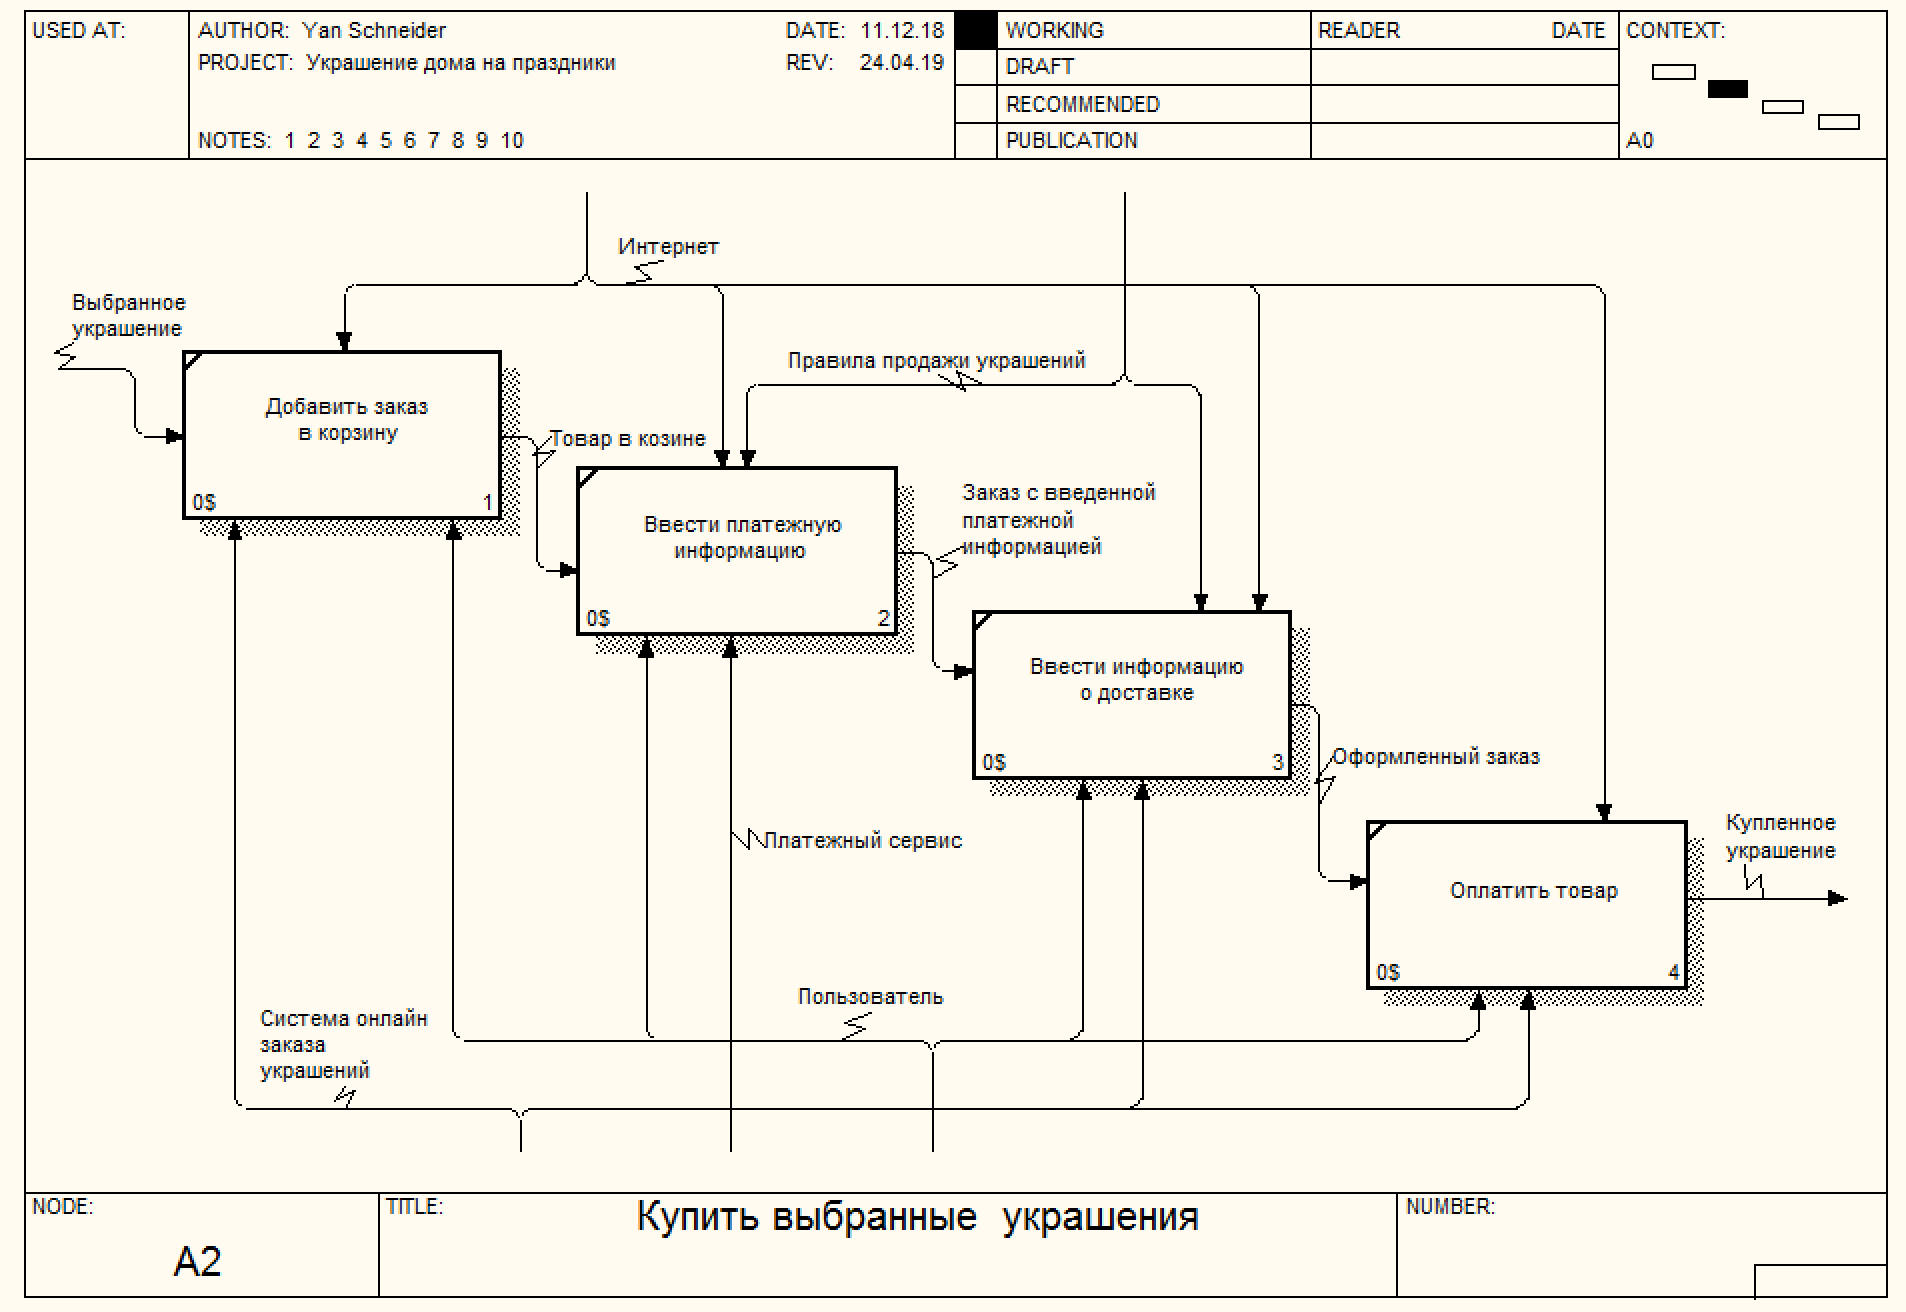
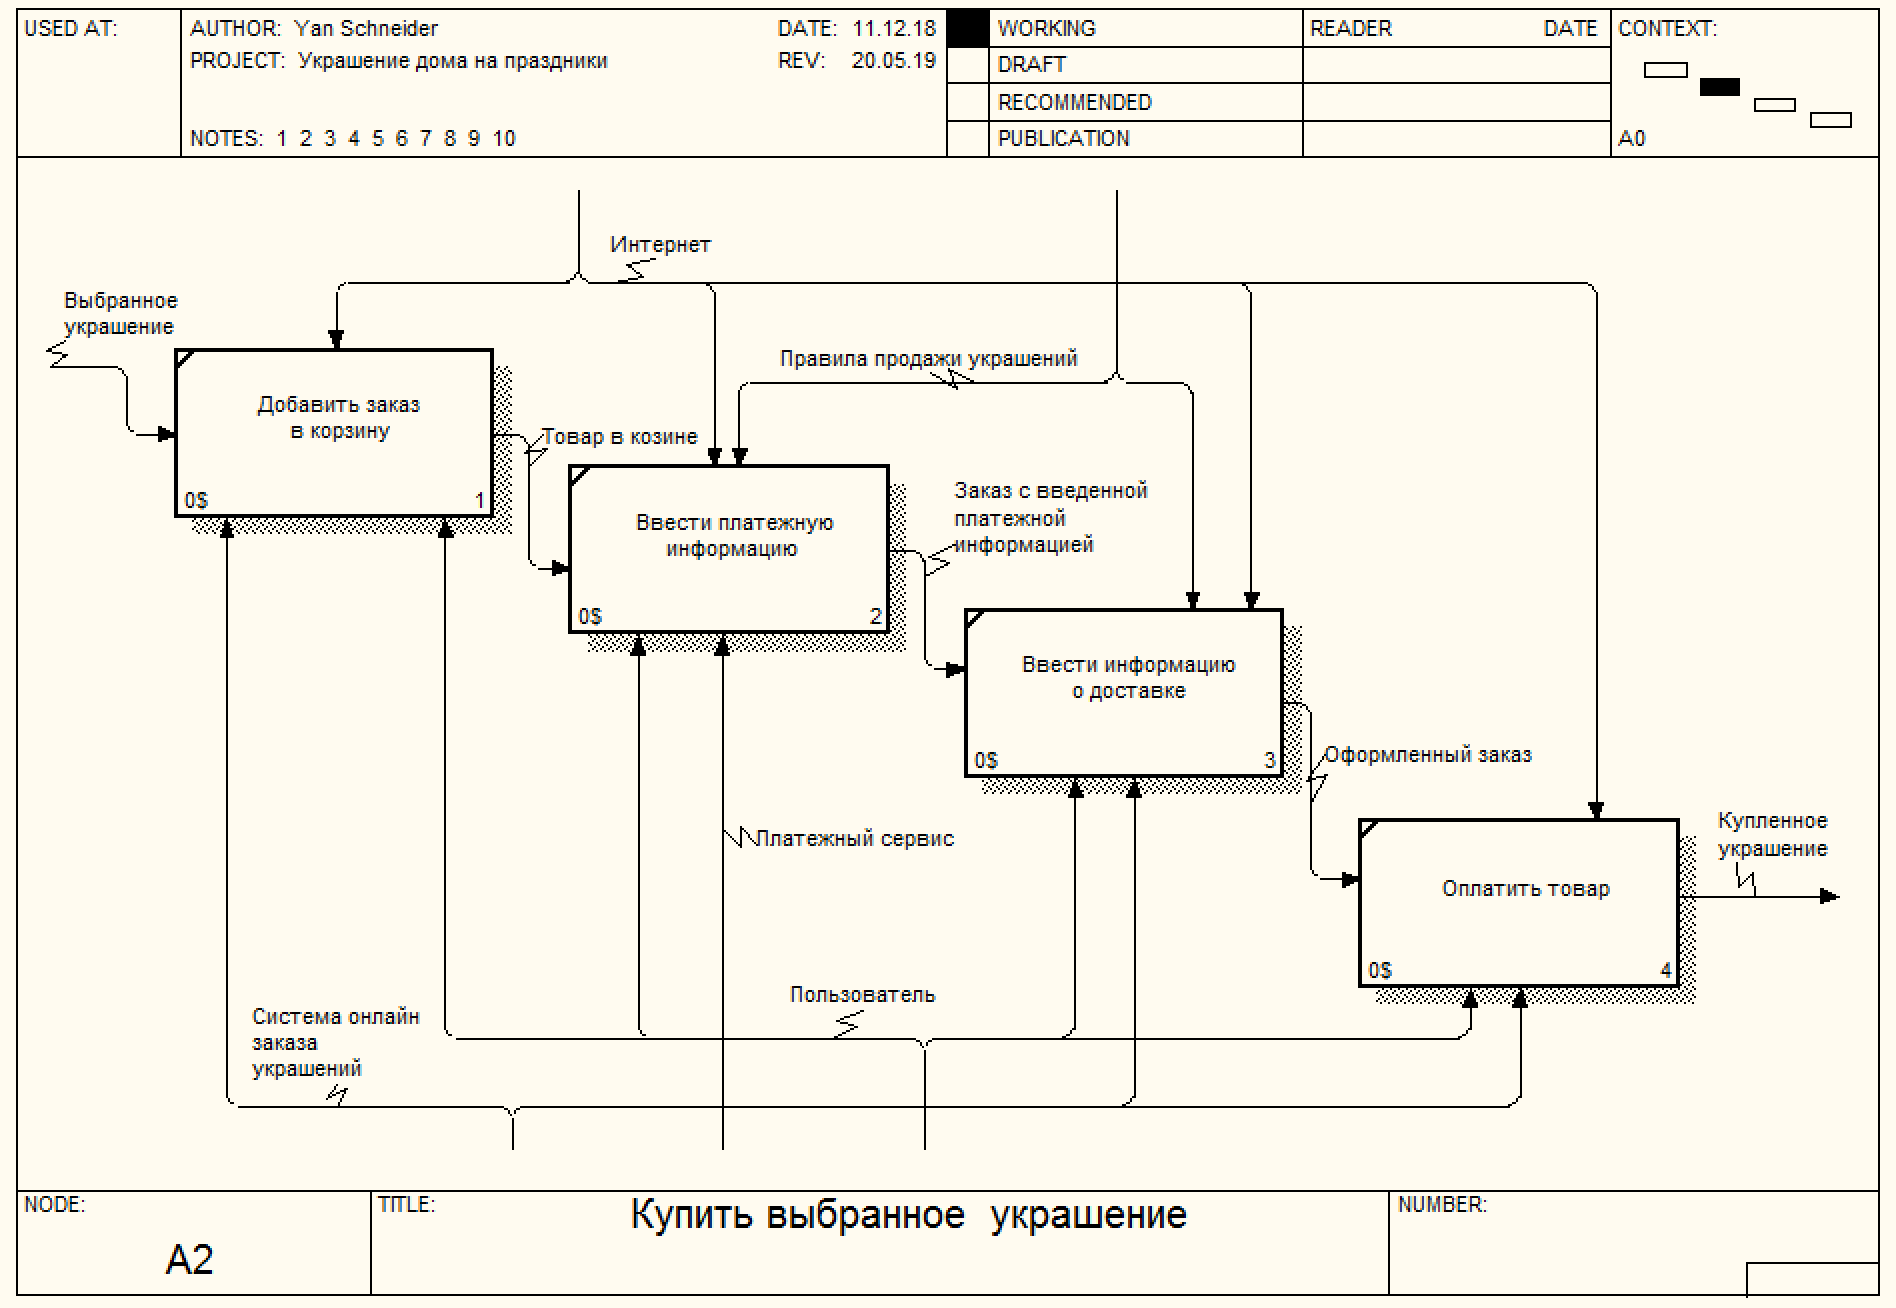
Fixed idef, changed title, added analytics

diff --git a/content/sections/analysis/02_02_company_and_garlands.tex b/content/sections/analysis/02_02_company_and_garlands.tex
@@ -1,6 +1,36 @@
 \subsection{Деятельность ООО \enquote{Сампад} в сфере Интернета вещей}
 \label{sec:develop:companyGarlands}
 
+Индустрия электронного светового оборудования и рынок IoT занимают особое место в деятельности кампании Sampad. Первый проект в данной сфере появился еще в 2016 году. На данный момент существует уже 4 проекта со схожей тематикой и еще несколько находятся на стадии проектирования. Компания разрабатывает как мобильные и веб приложения для управления световым оборудованием, так и прошивку для самого оборудования (C/C++, Arduino). Также компания консультирует заказчиков по поводу электронных компонентов, находящихся в данном оборудовании, хоть и не отвечает непосредственно за разработку электронных схем.
 
+Динамика роста прибыли компании Sampad в сфере Интернета вещей за последний год показывает отличный прогресс (Рисунок \ref{fig:analysis:companyGarlands:sampadIncome}).
 
+~
+\begin{figure}[H]
+\centering
+	\includegraphics[scale=1]{figures/sampadIncome.png}
+	\caption{Прибыль компании Sampad в различных сферах}
+	\label{fig:analysis:companyGarlands:sampadIncome}
+\end{figure}
 
+Перед началом проекта по управлению адресными светодиодными лентами, было проведено маркетинговое исследование. Данное исследование выявило самую эффективную платформу для разработки приложения~--- мобильные устройства (Рисунок \ref{fig:analysis:companyGarlands:deviceMarket}). Мобильные телефоны имеются практически у каждого человека, так что выбор данной платформы позволяет совершить самый широкий обхват пользователей. Также мобильные устройства отлично подходят для управления различными устройствами в сети, в том числе и адресной светодиодной лентой.
+
+~
+\begin{figure}[H]
+\centering
+	\includegraphics[scale=0.4]{figures/deviceMarket.png}
+	\caption{Сравнение количества мобильных устройств, компьютеров и планшетов}
+	\label{fig:analysis:companyGarlands:deviceMarket}
+\end{figure}
+
+Также были исследованы обе мобильные операционные системы (iOS и Android), и, исходя из полученных данных, было принято решение первоначально сделать приложения для операционной системы Apple iOS (Рисунок \ref{fig:analysis:companyGarlands:digitalMarkets}). Данная операционная система является закрытой и имеет только один, проприетарный магазин приложений. В данных условиях приложение по управлению адресными светодиодными лентами имеет доступ к наиболее полному набору пользователей данной операционной системы.
+
+~
+\begin{figure}[H]
+\centering
+	\includegraphics[scale=1]{figures/digitalMarkets.png}
+	\caption{Сравнение объема продаж в цифровых магазинах в различных операционных системах}
+	\label{fig:analysis:companyGarlands:digitalMarkets}
+\end{figure}
+
+По результатам исследования и маркетинговым прогнозам, приложение должно принести большую прибыль компании. Более подробное экономическое обоснование представлено в главе 4.

diff --git a/content/sections/analysis/02_analysis.tex b/content/sections/analysis/02_analysis.tex
@@ -3,10 +3,10 @@
 
 \input{content/sections/analysis/02_01_company}
 
-% \input{content/sections/analysis/02_02_market}
+\input{content/sections/analysis/02_02_company_and_garlands}
 
 \input{content/sections/analysis/02_03_forecast}
 
 \input{content/sections/analysis/02_04_businessProccess}
 
-Итак, был исследован процесс приобретения и управления адресной светодиодной лентой. На основе результатов исследования был проведен анализ рынка Интернета вещей и исследован его прогноз на 2019 год. В результате анализа и исследования была предложена новая модель взаимодействия пользователя с адресной лентой. Новая модель включает в себя специально разработанную адресную ленту, а также мобильное приложение, с помощью которого пользователи получат возможность полноценно управлять данной лентой.
+Итак, был исследован процесс приобретения и управления адресной светодиодной лентой. Представлена информация о компании Sampad, и роли Интернета вещей в ее деятельности. На основе результатов исследования был проведен анализ рынка Интернета вещей и исследован его прогноз на 2019 год. В результате анализа и исследования была предложена новая модель взаимодействия пользователя с адресной лентой. Новая модель включает в себя специально разработанную адресную ленту, а также мобильное приложение, с помощью которого пользователи получат возможность полноценно управлять данной лентой.

diff --git a/content/sections/analysis/02_01_company.tex b/content/sections/analysis/02_01_company.tex
@@ -28,5 +28,3 @@ Sampad имеет большой опыт в таких областях, как
 Основными заказчиками являются: Microsoft, Oracle, The Coca-Cola Company, McDonalds, Nestle, Timotei и многие другие.
 
 Компания делает большой акцент на проектах с использованием искусственного интеллекта (машинное обучение, нейронные сети и др.). Существуют проекты в сфере образования, сбора финансовой информации, кредитования малого и среднего бизнеса, а также приложения для сельского хозяйства (предсказание появления насекомых на полях).
-
-Индустрия электронного светового оборудования и рынок IoT занимают особое место в деятельности кампании Sampad. Первый проект в данной сфере появился еще в 2016 году. На данный момент существует уже 4 проекта со схожей тематикой и еще несколько находятся на стадии проектирования. Компания разрабатывает как мобильные и веб приложения для управления световым оборудованием, так и прошивку для самого оборудования (C/C++, Arduino). Также компания консультирует заказчиков по поводу электронных компонентов, находящихся в данном оборудовании, хоть и не отвечает непосредственно за разработку электронных схем.

diff --git a/content/sections/analysis/02_04_businessProccess.tex b/content/sections/analysis/02_04_businessProccess.tex
@@ -45,7 +45,7 @@
 \begin{figure}[H]
 \centering
 	\includegraphics[scale=0.45]{figures/functionalModel/a1_search.png}
-	\caption{Декомпозиция блока \enquote{Искать подходящие украшения}}
+	\caption{Декомпозиция блока \enquote{Искать подходящие украшение}}
 	\label{fig:analysis:functionalModel:a1_search}
 \end{figure}
 
@@ -55,7 +55,7 @@
 \begin{figure}[H]
 \centering
 	\includegraphics[scale=0.45]{figures/functionalModel/a2_buy.png}
-	\caption{Декомпозиция блока \enquote{Купить выбранные украшения}}
+	\caption{Декомпозиция блока \enquote{Купить выбранные украшение}}
 	\label{fig:analysis:functionalModel:a2_buy}
 \end{figure}
 
@@ -63,7 +63,7 @@
 \begin{figure}[H]
 \centering
 	\includegraphics[scale=0.45]{figures/functionalModel/a3_install.png}
-	\caption{Декомпозиция блока \enquote{Установить украшения}}
+	\caption{Декомпозиция блока \enquote{Установить украшение}}
 	\label{fig:analysis:functionalModel:a3_install}
 \end{figure}
 
@@ -75,7 +75,7 @@
 \begin{figure}[H]
 \centering
 	\includegraphics[scale=0.45]{figures/functionalModel/a4_settings.png}
-	\caption{Декомпозиция блока \enquote{Настроить украшения}}
+	\caption{Декомпозиция блока \enquote{Настроить украшение}}
 	\label{fig:analysis:functionalModel:a4_settings}
 \end{figure}
 

diff --git a/content/main/title.tex b/content/main/title.tex
@@ -10,7 +10,15 @@
           Инженерно-экономический факультет\\
           Кафедра экономической информатики\\
       \end{flushleft}
-    \end{minipage}\\[3.5em]
+    \end{minipage}\\[3em]
+
+    \begin{flushright}
+      \begin{minipage}{0.45\textwidth}
+        \textit{К защите допустить:}\\[0.8em]
+        Заведующий кафедрой \newline экономической информатики\\[0.45em]
+        \underline{\hspace*{2.8cm}} В.\,Н.~Комличенко
+      \end{minipage}\\[2.2em]
+    \end{flushright}
 
     {ПОЯСНИТЕЛЬНАЯ ЗАПИСКА}\\
     {к дипломному проекту}\\
@@ -22,7 +30,13 @@
     
     \begin{tabular}{ p{0.65\textwidth}p{0.25\textwidth} }
       Студент & Я.\,А.~Шнайдер \\
-      Руководитель & Т.\,М.~Унучек
+      Руководитель & Т.\,М.~Унучек \\
+      Консультанты: &\\
+      \hspace*{3ex}\emph{от предприятия} & Д.\,М.~Голуб \\
+      \hspace*{3ex}\emph{по экономической части} & В.\,И.~Шкода \\
+      Нормоконтролёр & Н.\,П.~Мытник\\
+      & \\
+      Рецензент &
     \end{tabular}
     
     \vfill

diff --git a/content/sections/develop/03_03_umlDiagrams.tex b/content/sections/develop/03_03_umlDiagrams.tex
@@ -1,4 +1,3 @@
-\newpage
 \subsection{Разработка моделей представления системы}
 \label{sec:develop:umlDiagrams}
 
